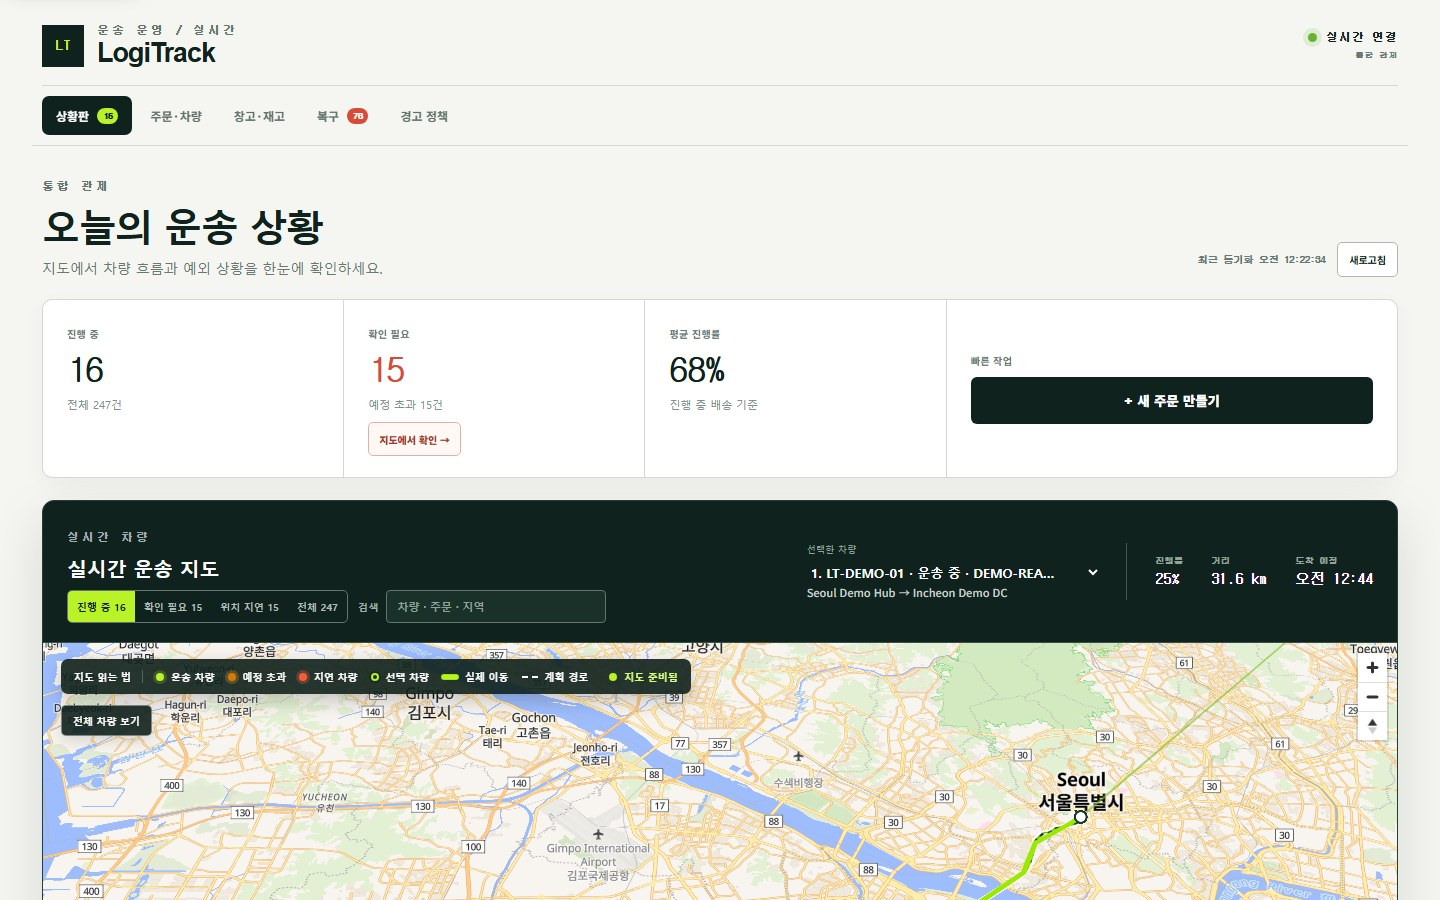
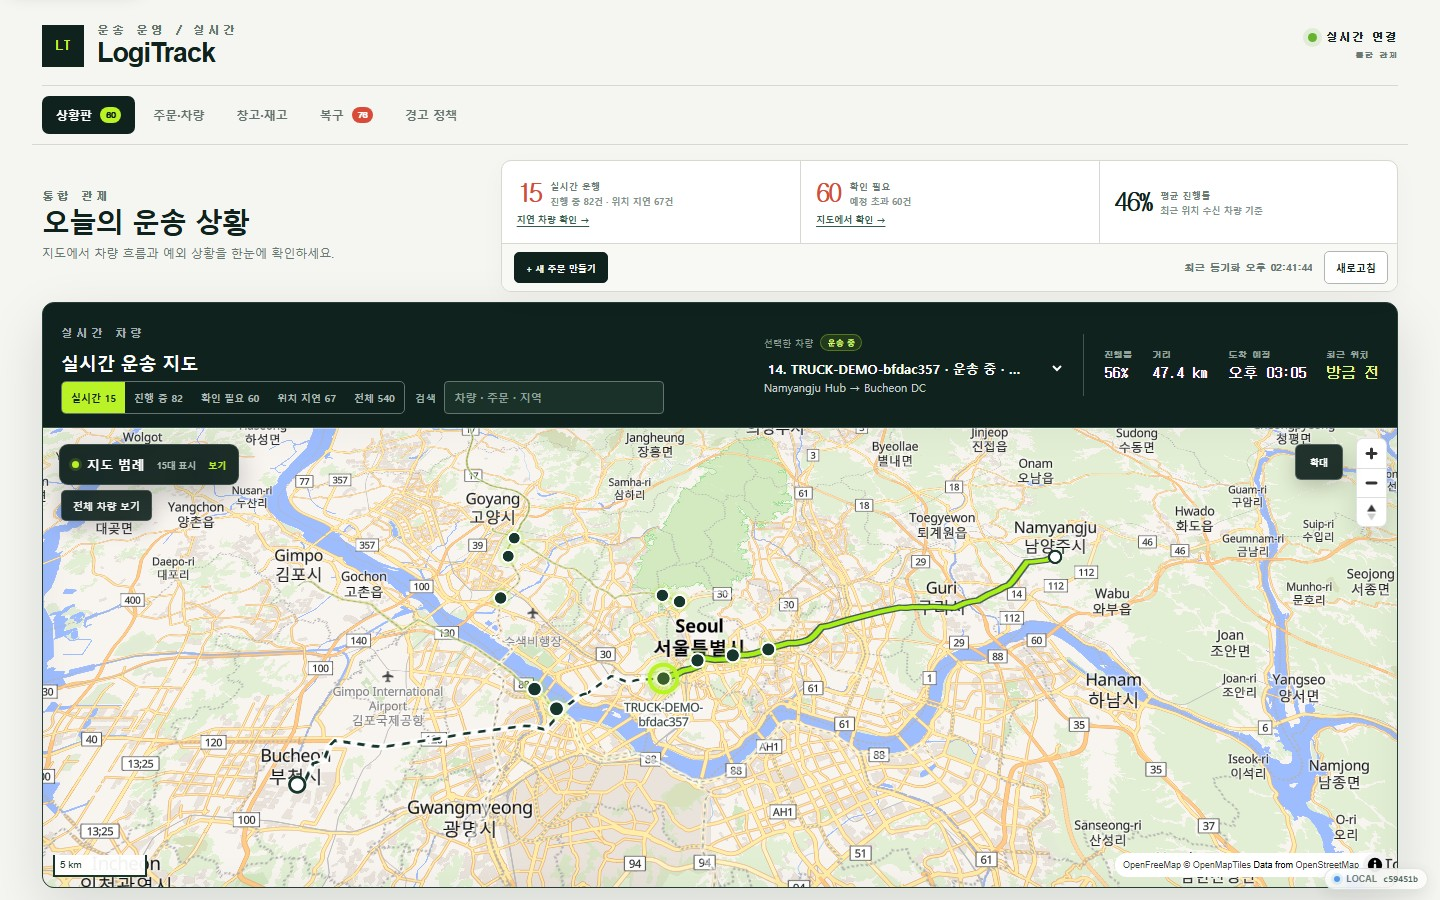
Refresh README UI snapshots (#314)

diff --git a/README.md b/README.md
@@ -13,13 +13,13 @@ LogiTrack is an event-driven logistics control tower that simulates order, wareh
 
 ## 화면 미리보기
 
-![LogiTrack 프로젝트 소개 화면에서 서울 물류 관제 흐름과 핵심 기능을 설명하는 모습](docs/images/project-overview.png)
+![주문부터 창고, 배차, 실시간 운송, 이상 감지와 복구까지 하나의 흐름으로 소개하는 LogiTrack 프로젝트 화면](docs/images/project-overview.png)
 
-*프로젝트 소개 화면 — 로컬 Docker Compose 환경, 1440×900 데스크톱 뷰포트.*
+*프로젝트 소개 화면 — 최신 `main` 로컬 Docker Compose 환경, 1440×900 데스크톱 뷰포트.*
 
-![합성 배송 데이터로 차량 진행률과 서울·인천 간 실시간 경로를 표시하는 LogiTrack 운영 콘솔](docs/images/operator-console-active-delivery.jpg)
+![15대 실시간 차량과 선택 차량의 진행률, 최근 위치, 계획 및 실제 경로를 표시하는 LogiTrack 운영 상황판](docs/images/operator-console-active-delivery.jpg)
 
-*운영 콘솔 — `DEMO-README-001` 합성 주문을 사용한 로컬 Docker Compose 환경, 1440×900 데스크톱 뷰포트.*
+*운영 상황판 — 최신 `main`의 자동 보충 데모 차량 15대, 상태 command center, 높이 최적화 지도와 접이식 범례를 표시한 로컬 Docker Compose 환경, 1440×900 데스크톱 뷰포트. 지도는 대형 화면의 남은 높이를 채우며 접근 가능한 확대 보기와 키보드 포커스 복귀를 지원합니다.*
 
 ## 핵심 기능
 
@@ -106,7 +106,7 @@ curl -X POST http://localhost:8080/api/orders/{orderId}/dispatch \
 
 경로 스냅샷 조회는 `GET /api/routes`입니다. 개발 환경은 OSRM 호환 endpoint를 사용하며 2.5초 안에 응답하지 않거나 오류가 발생하면 로컬 geodesic 계산으로 자동 전환합니다. 공개 demo는 개발용이므로 운영에서는 `.env`의 `OSRM_BASE_URL`을 자체 호스팅 또는 계약된 공급자로 교체하세요. 완전한 오프라인 실행은 `ROUTING_PROVIDER=geodesic`으로 설정합니다.
 
-운영 콘솔은 MapLibre 기반 벡터 지도에서 계획 경로, PostgreSQL에 저장된 실제 GPS 주행 궤적, 차량 상태와 ETA를 실시간으로 표시합니다. 지도와 telemetry 목록은 운행 중 차량만 표시하는 통합 `LIVE` 범위를 기본으로 사용해 누적 이력의 중첩을 피하고, `ALL`로 완료 배송까지 전환할 수 있습니다. 지도 헤더의 즉시 검색으로 차량·주문·출발지·도착지를 좁히면 지도와 목록이 동시에 반영되고, 검색 결과가 없을 때 복구 방법을 지도 위에 안내하며 선택 차량은 밝은 halo로 강조합니다. 기본 OpenFreeMap 스타일은 별도 API key 없이 동작하며, 운영용 지도 공급자는 `.env`의 `NEXT_PUBLIC_MAP_STYLE_URL`로 교체할 수 있습니다.
+운영 콘솔은 MapLibre 기반 벡터 지도에서 계획 경로, PostgreSQL에 저장된 실제 GPS 주행 궤적, 차량 상태와 ETA를 실시간으로 표시합니다. 공통 command center는 실시간 운행·확인 필요·평균 진행률과 대표 작업을 첫 화면에 배치하고, 지도는 화면 높이에 맞춰 남은 공간을 사용합니다. 지도와 telemetry 목록은 최근 위치를 수신한 운행 차량을 보여주는 `LIVE` 범위를 기본으로 사용하며 진행 중 전체·확인 필요·위치 지연·`ALL` 범위로 전환할 수 있습니다. 즉시 검색으로 차량·주문·출발지·도착지를 좁히면 지도와 목록이 함께 갱신되고, 선택 차량은 계획·실제 경로와 거점까지 고대비로 강조됩니다. 접이식 범례와 전체 차량 맞춤, 키보드 포커스를 가두고 `Esc` 종료 후 원래 조작으로 복귀하는 접근 가능한 확대 보기를 제공합니다. 기본 OpenFreeMap 스타일은 별도 API key 없이 동작하며, 운영용 지도 공급자는 `.env`의 `NEXT_PUBLIC_MAP_STYLE_URL`로 교체할 수 있습니다.
 
 ## 문서
 
